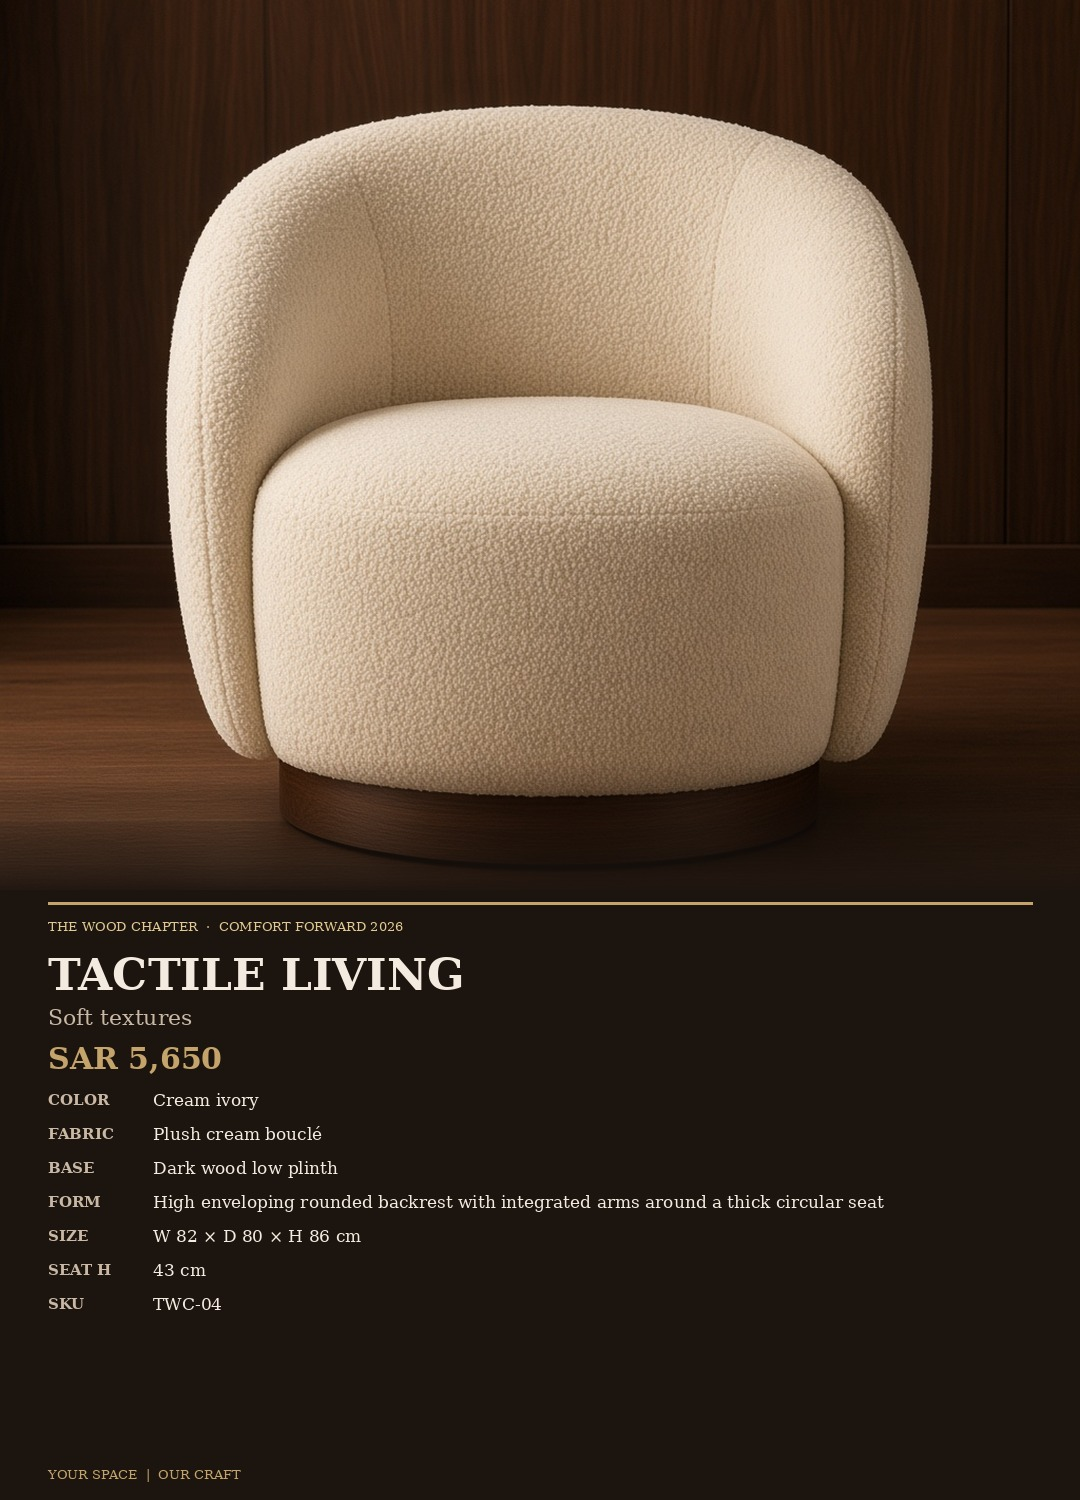
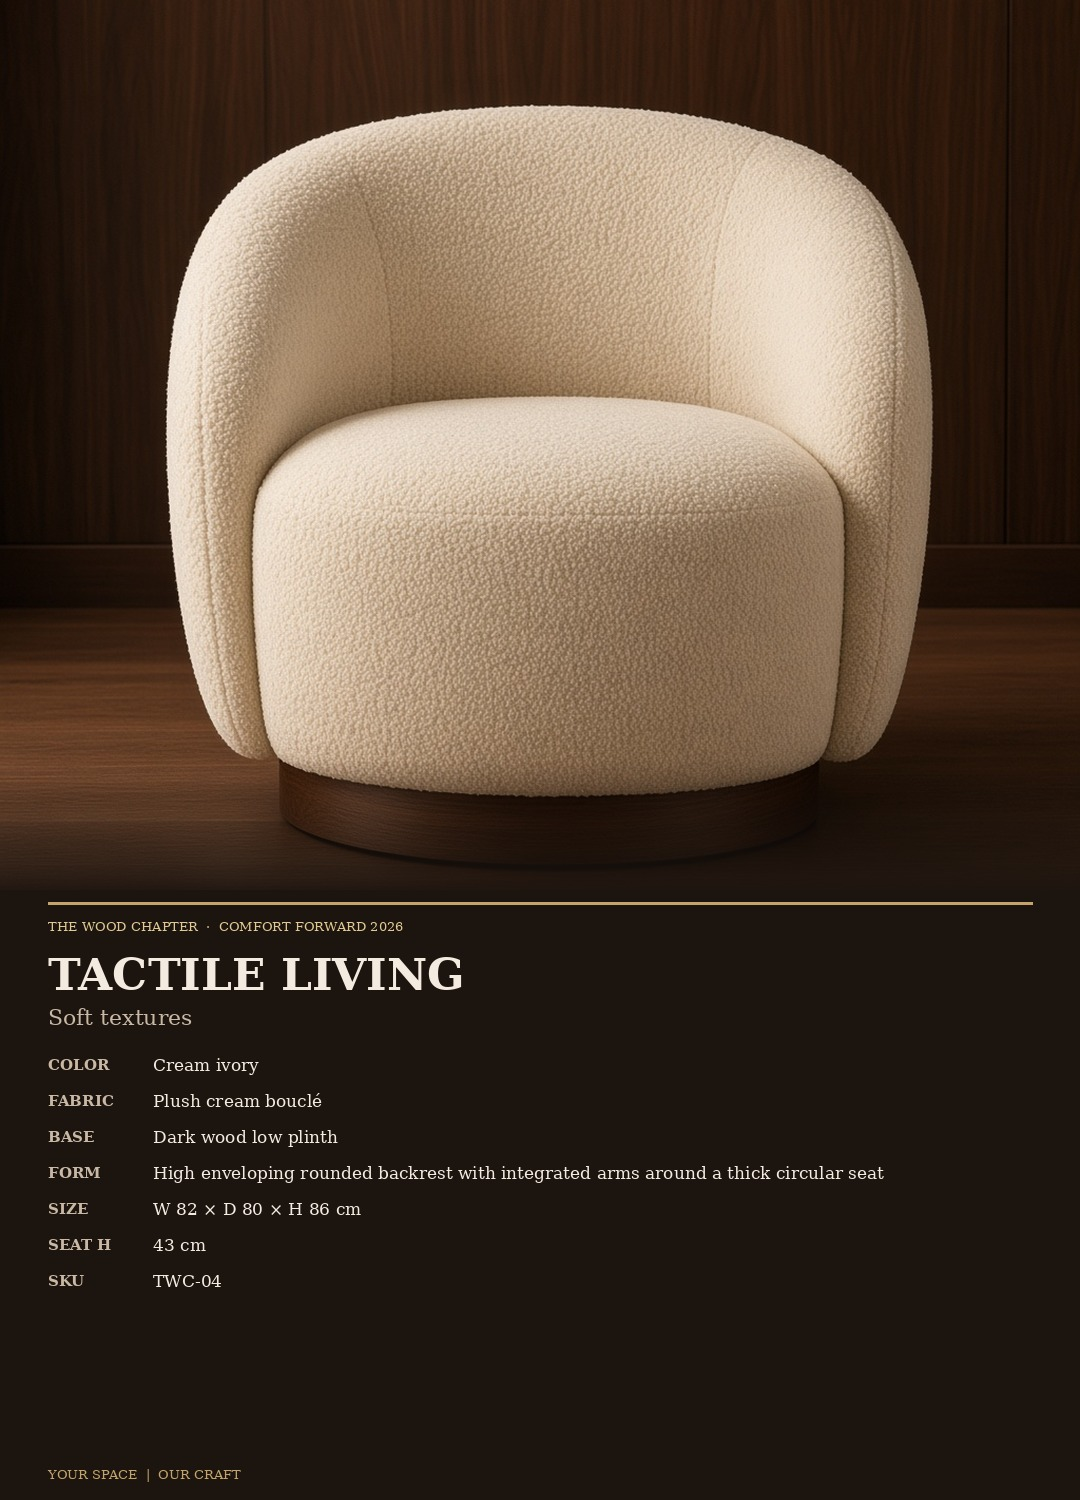
Remove prices from product detail cards and pages
Keep material, size, and SKU specs only — no rate/price on cards.

diff --git a/the-wood-chapter/products/modular-lounging.html b/the-wood-chapter/products/modular-lounging.html
@@ -57,7 +57,6 @@
         <aside class="pd-info">
           <h1>Modular Lounging</h1>
           <p class="pd-tagline">Flexible seating</p>
-          <p class="pd-price">SAR 6,400</p>
           <ul class="specs">
             <li><span class="label">Color</span><span>Terracotta rust</span></li>
             <li><span class="label">Fabric</span><span>Soft terracotta with vertical pillow tufting</span></li>

diff --git a/the-wood-chapter/products/soft-geometry.html b/the-wood-chapter/products/soft-geometry.html
@@ -57,7 +57,6 @@
         <aside class="pd-info">
           <h1>Soft Geometry</h1>
           <p class="pd-tagline">Rounded forms</p>
-          <p class="pd-price">SAR 4,850</p>
           <ul class="specs">
             <li><span class="label">Color</span><span>Cream ivory</span></li>
             <li><span class="label">Fabric</span><span>Nubby cream bouclé with subtle tonal pattern</span></li>

diff --git a/the-wood-chapter/products/cocoon-comfort.html b/the-wood-chapter/products/cocoon-comfort.html
@@ -57,7 +57,6 @@
         <aside class="pd-info">
           <h1>Cocoon Comfort</h1>
           <p class="pd-tagline">Enveloping design</p>
-          <p class="pd-price">SAR 5,900</p>
           <ul class="specs">
             <li><span class="label">Color</span><span>Midnight navy</span></li>
             <li><span class="label">Fabric</span><span>Deep navy textured chenille bouclé</span></li>

diff --git a/the-wood-chapter/products/relaxed-luxury.html b/the-wood-chapter/products/relaxed-luxury.html
@@ -57,7 +57,6 @@
         <aside class="pd-info">
           <h1>Relaxed Luxury</h1>
           <p class="pd-tagline">Low-slung ease</p>
-          <p class="pd-price">SAR 5,450</p>
           <ul class="specs">
             <li><span class="label">Color</span><span>Cognac brown</span></li>
             <li><span class="label">Fabric</span><span>Warm cognac channel-tufted upholstery</span></li>

diff --git a/the-wood-chapter/products/bold-accents.html b/the-wood-chapter/products/bold-accents.html
@@ -57,7 +57,6 @@
         <aside class="pd-info">
           <h1>Bold Accents</h1>
           <p class="pd-tagline">Statement pieces</p>
-          <p class="pd-price">SAR 4,200</p>
           <ul class="specs">
             <li><span class="label">Color</span><span>Terracotta rust</span></li>
             <li><span class="label">Fabric</span><span>Matte terracotta upholstery</span></li>

diff --git a/the-wood-chapter/products/blush-hour.html b/the-wood-chapter/products/blush-hour.html
@@ -57,7 +57,6 @@
         <aside class="pd-info">
           <h1>Blush Hour</h1>
           <p class="pd-tagline">Soft romance</p>
-          <p class="pd-price">SAR 5,250</p>
           <ul class="specs">
             <li><span class="label">Color</span><span>Dusty blush pink</span></li>
             <li><span class="label">Fabric</span><span>Soft blush pink velvet-chenille</span></li>

diff --git a/the-wood-chapter/products/low-profile.html b/the-wood-chapter/products/low-profile.html
@@ -57,7 +57,6 @@
         <aside class="pd-info">
           <h1>Low Profile</h1>
           <p class="pd-tagline">Horizontal ease</p>
-          <p class="pd-price">SAR 5,950</p>
           <ul class="specs">
             <li><span class="label">Color</span><span>Sage green</span></li>
             <li><span class="label">Fabric</span><span>Smooth sage green upholstery</span></li>

diff --git a/the-wood-chapter/products/natural-hues.html b/the-wood-chapter/products/natural-hues.html
@@ -57,7 +57,6 @@
         <aside class="pd-info">
           <h1>Natural Hues</h1>
           <p class="pd-tagline">Organic greens</p>
-          <p class="pd-price">SAR 5,200</p>
           <ul class="specs">
             <li><span class="label">Color</span><span>Olive sage</span></li>
             <li><span class="label">Fabric</span><span>Textured olive-green bouclé</span></li>

diff --git a/the-wood-chapter/products/warm-textures.html b/the-wood-chapter/products/warm-textures.html
@@ -57,7 +57,6 @@
         <aside class="pd-info">
           <h1>Warm Textures</h1>
           <p class="pd-tagline">Inviting materials</p>
-          <p class="pd-price">SAR 5,150</p>
           <ul class="specs">
             <li><span class="label">Color</span><span>Terracotta rust</span></li>
             <li><span class="label">Fabric</span><span>Terracotta bouclé</span></li>

diff --git a/the-wood-chapter/products/new-classics.html b/the-wood-chapter/products/new-classics.html
@@ -57,7 +57,6 @@
         <aside class="pd-info">
           <h1>New Classics</h1>
           <p class="pd-tagline">Timeless appeal</p>
-          <p class="pd-price">SAR 6,100</p>
           <ul class="specs">
             <li><span class="label">Color</span><span>Cream + walnut</span></li>
             <li><span class="label">Fabric</span><span>Cream bouclé cushions</span></li>

diff --git a/the-wood-chapter/products/sage-story.html b/the-wood-chapter/products/sage-story.html
@@ -57,7 +57,6 @@
         <aside class="pd-info">
           <h1>Sage Story</h1>
           <p class="pd-tagline">Nature inspired</p>
-          <p class="pd-price">SAR 5,750</p>
           <ul class="specs">
             <li><span class="label">Color</span><span>Muted sage</span></li>
             <li><span class="label">Fabric</span><span>Sage green plush bouclé</span></li>

diff --git a/the-wood-chapter/products/tactile-living.html b/the-wood-chapter/products/tactile-living.html
@@ -57,7 +57,6 @@
         <aside class="pd-info">
           <h1>Tactile Living</h1>
           <p class="pd-tagline">Soft textures</p>
-          <p class="pd-price">SAR 5,650</p>
           <ul class="specs">
             <li><span class="label">Color</span><span>Cream ivory</span></li>
             <li><span class="label">Fabric</span><span>Plush cream bouclé</span></li>
